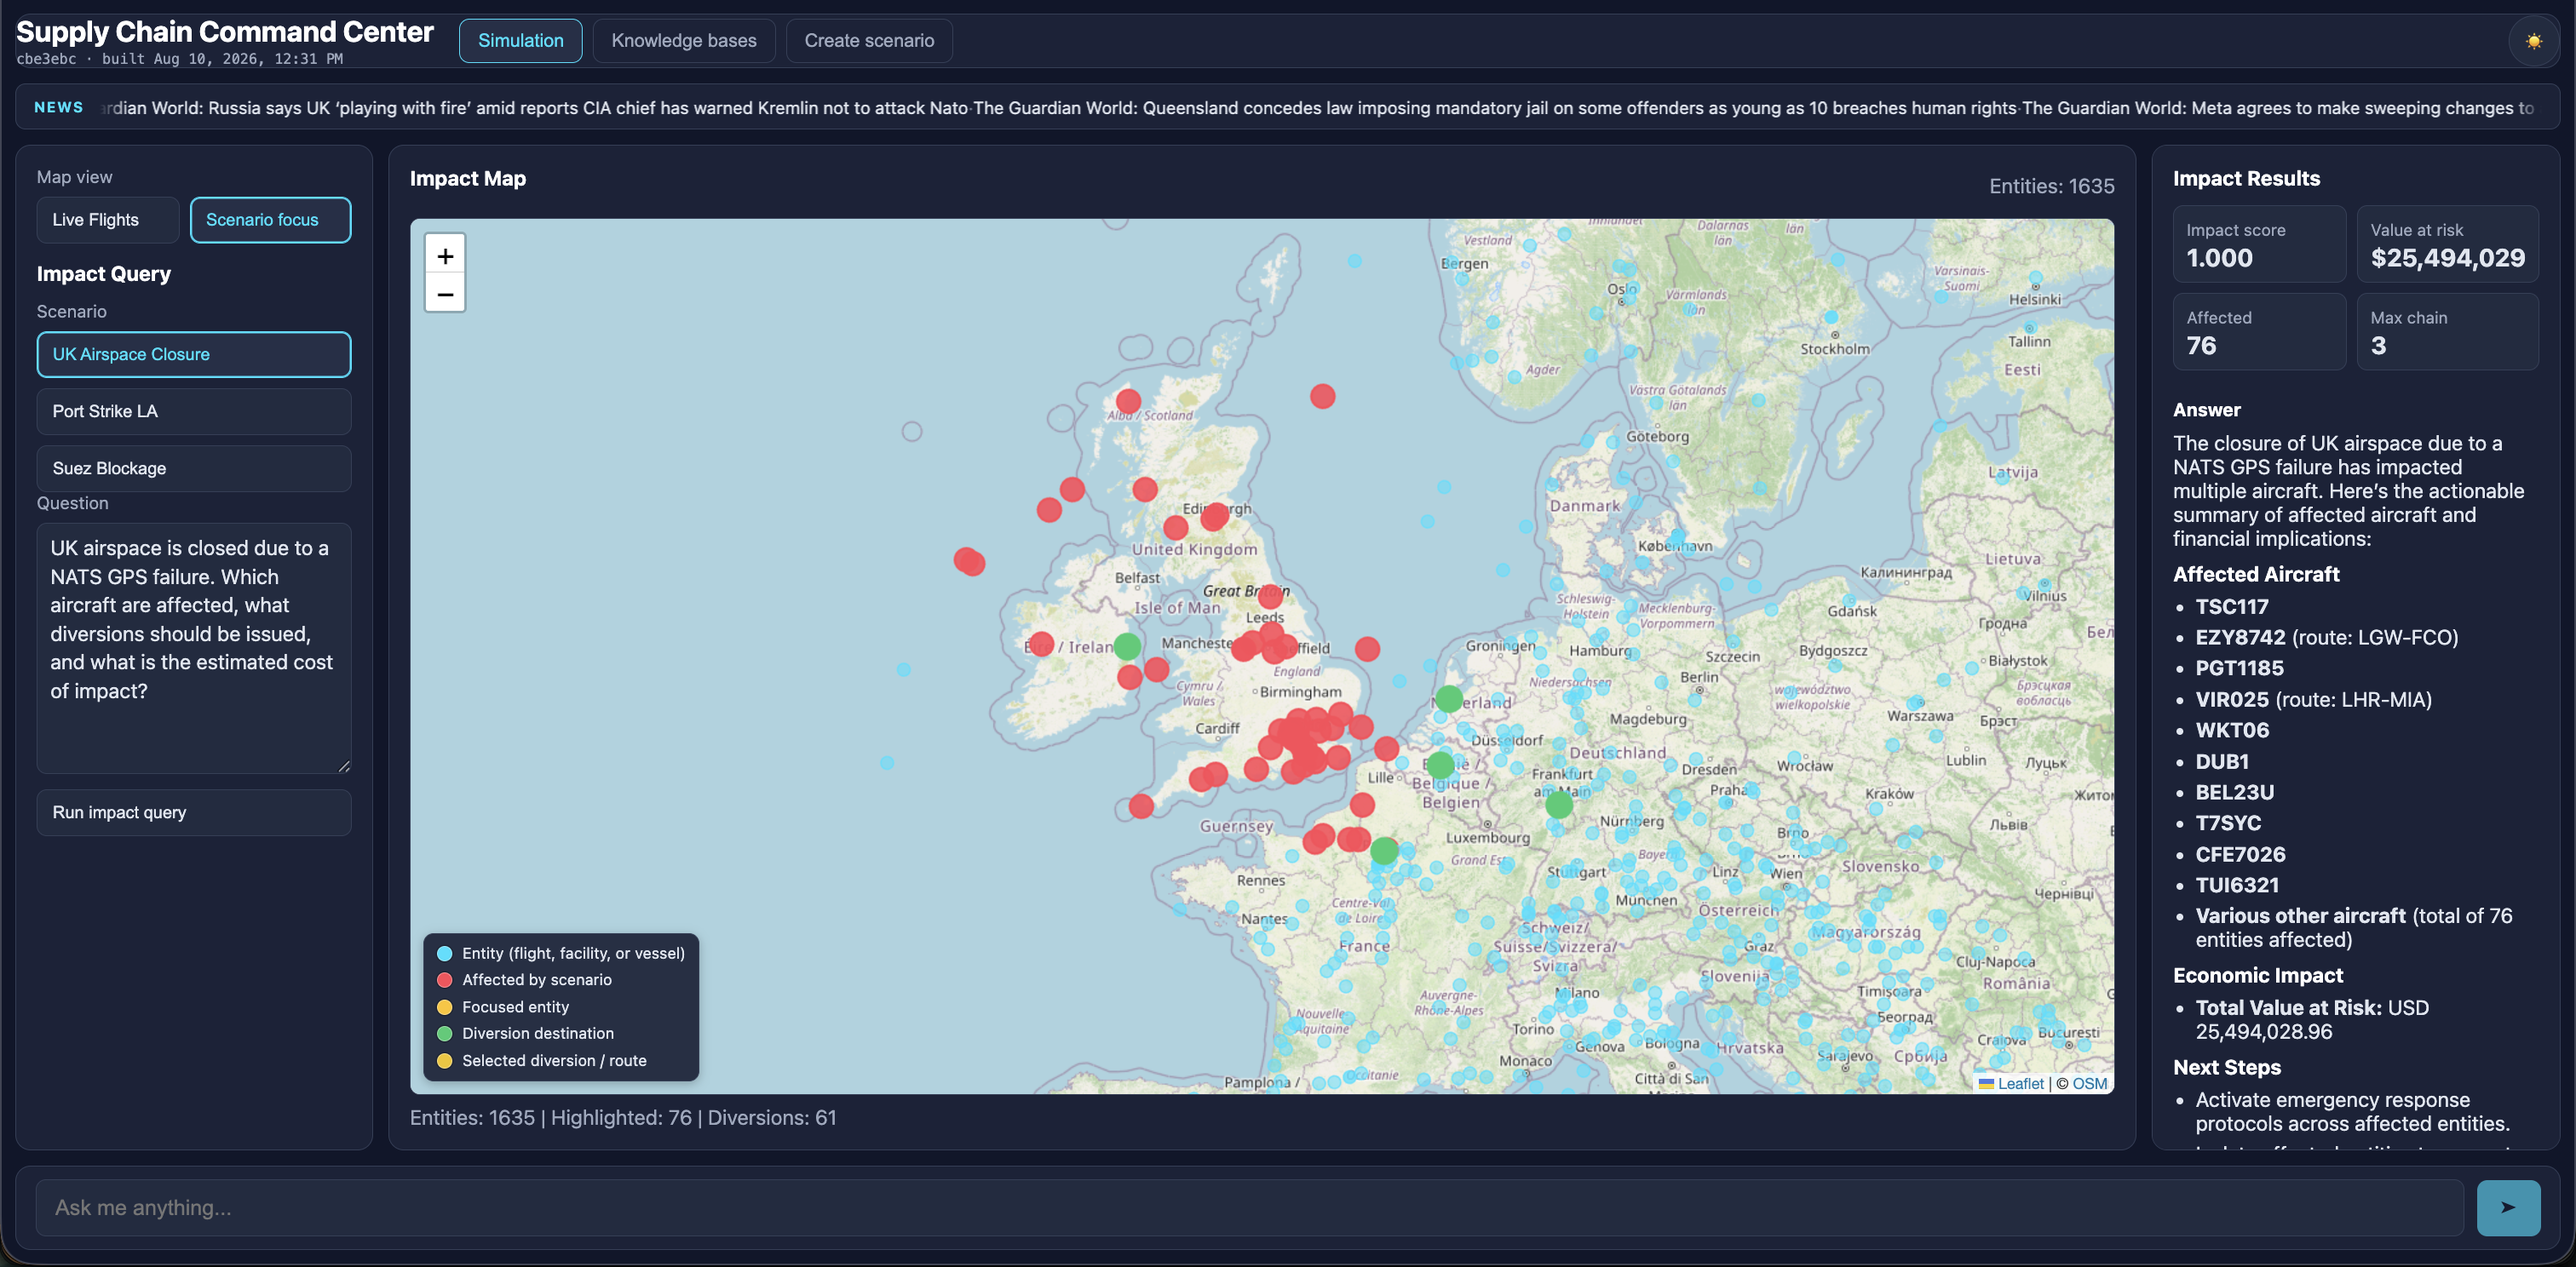
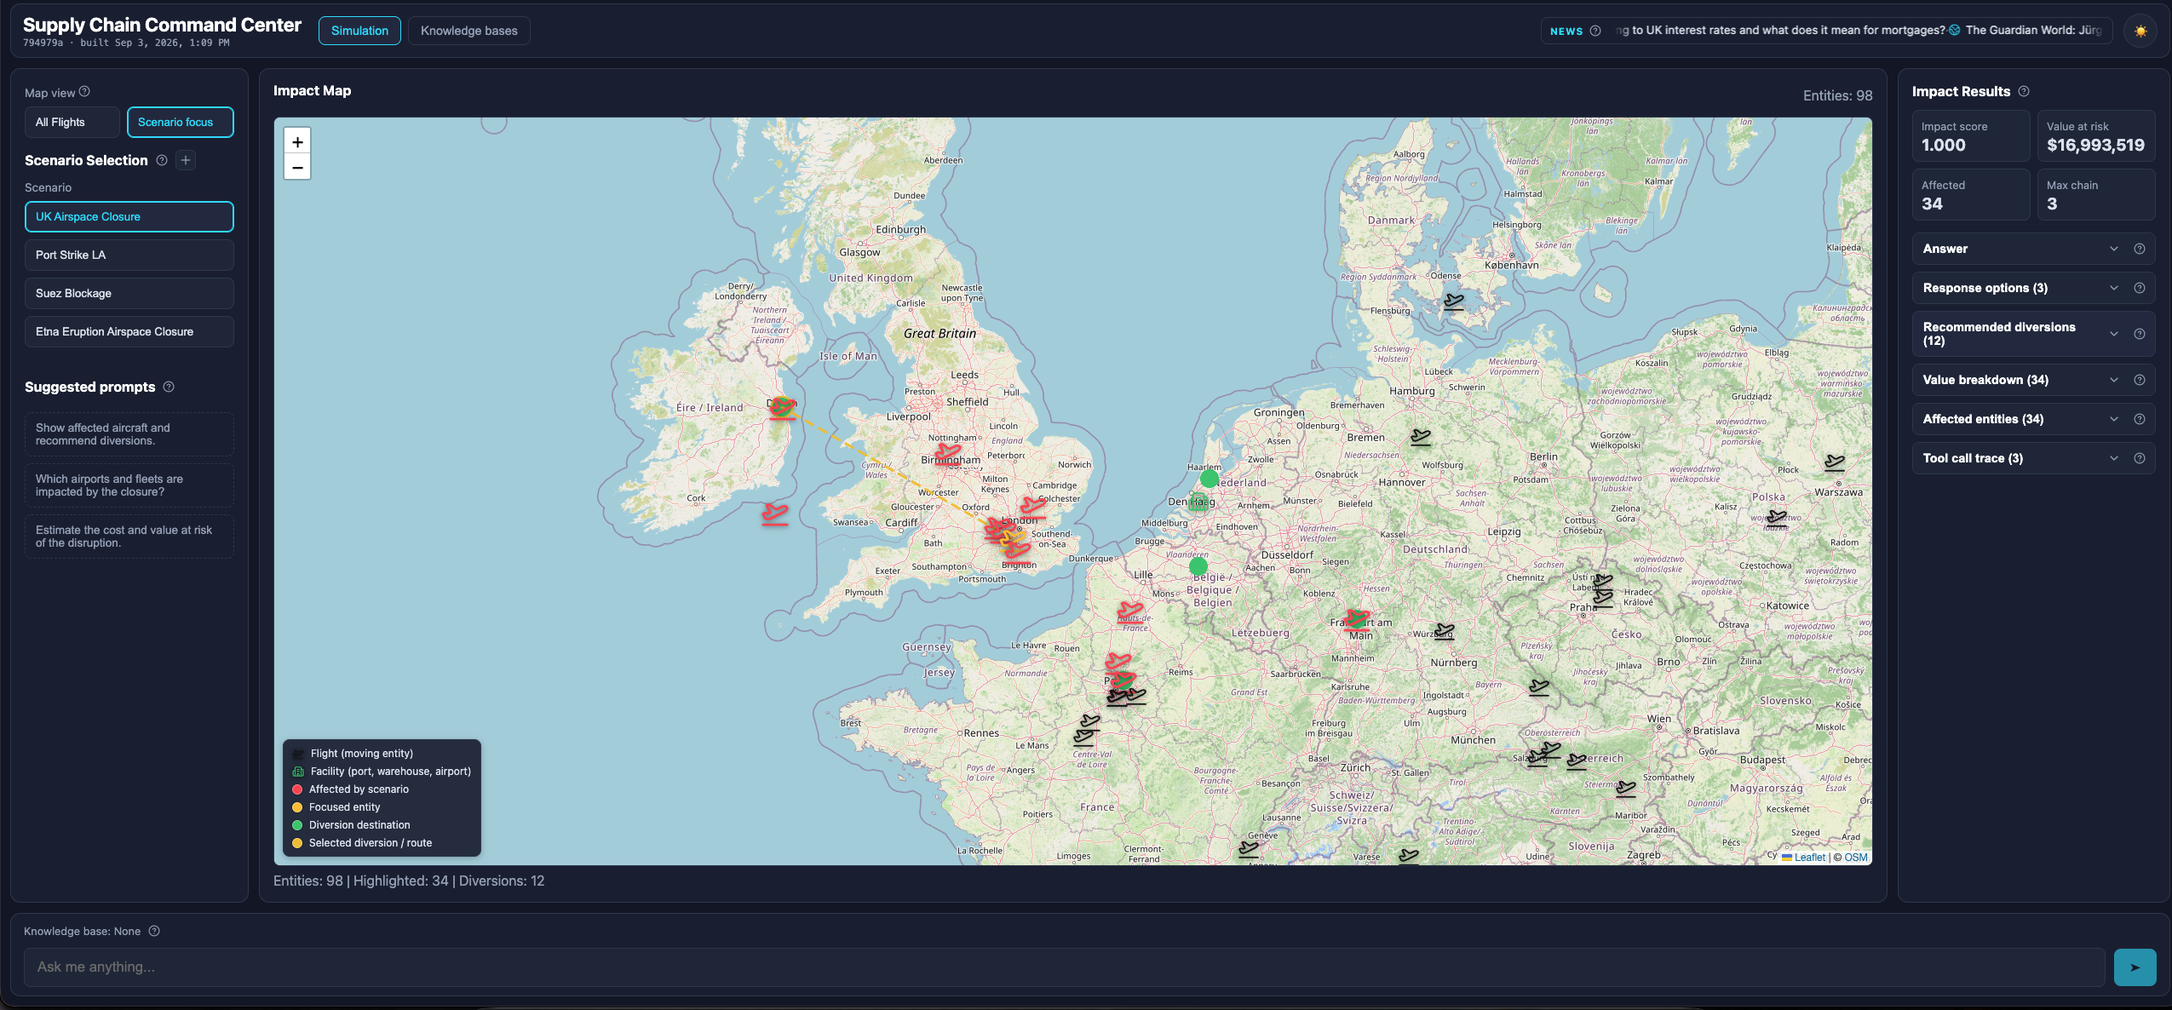
fix

diff --git a/README.md b/README.md
@@ -286,7 +286,7 @@ This will fetch 50 live flights (as a representation of flights that your organi
 
 Once complete you should see a page like:
 
-![Supply chain dashboard map showing seeded flights with cargo markers](/docs/images/after-seed.png)
+![Supply chain dashboard map showing seeded flights with cargo markers](/docs/images/all-flights.png)
 
 Each icon is a single flight with cargo associated. 
 
@@ -321,7 +321,7 @@ After the scenario runs you will notice the map zoom to the location of the even
 
 You should be able to select flight redirect for each flight which will show as follows on the map: 
 
-![Map showing a suggested flight redirect route around the disrupted airspace](/docs/images/flight-redirects.png)
+![Map showing a suggested flight redirect route around the disrupted airspace](/docs/images/recomended-diversions.png)
 
 TODO: - add step to filter the impact based on a single company, showing how it can be more specific to your company, provided data that tags flights that you have cargo on.
 
@@ -329,9 +329,9 @@ TODO: - add step to filter the impact based on a single company, showing how it 
 
 After running the scenarios data is injected into the agents memory and you can ask follow up questions about that type of event. 
 
-TODO: - add screenshot that shows where you ask the questions
+![Example Question 1](/docs/images/ai-chat.png)
 
-TODO: - add at least 2 specific questions to ask, and example of what the response might look like for each one
+![Example Question 2](/docs/images/second-chat-message.png)
 
 #### Create a new Scenario
 
@@ -340,7 +340,7 @@ to your organization.
 
 In the top bar of the application click the create scenario as show in:
 
-TODO: add screenshot highlighting where to click to create a new scenario.
+![Click Scenario](/docs/images/new-scenario.png)
 
 Once you click on the `+` the page looks as follows:
 
@@ -357,7 +357,7 @@ Italy.
 Once you select the "Create scenario" button it will save you the scenario and bring you back to the home page.
 You should now see the new scenario in addition to the pre-configured ones:
 
-TODO: - add screenshot showing added scenario
+![New Scenario In Menu](/docs/images/new-scenario-in-menu.png)
 
 Next select the "Knowledge bases" option, and you should see a screen like:
 
@@ -368,11 +368,11 @@ select the file `/docs/knowledge-bases/italy_volcano_eruptions.txt` using Choose
 
 Select `Create and injest` and you should see that a knowledge base was added:
 
-TODO: - add screenshot showing knowledge base that was added
+![New Knowledge Base Added](/docs/images/before-ingest.png)
 
 Now go back to the main page and select the newly added scenario:
 
-TODO - add screenshot showing the new newly added scenario, selected 
+![New Knowledge Base Added](/docs/images/after-ingest.png)
 
 You will notice that the impact is centered on italy. You can now go and ask impact questions as shown
 earlier which will be grounded in the simulation for the new scenario and the knowledge base that was updated.
